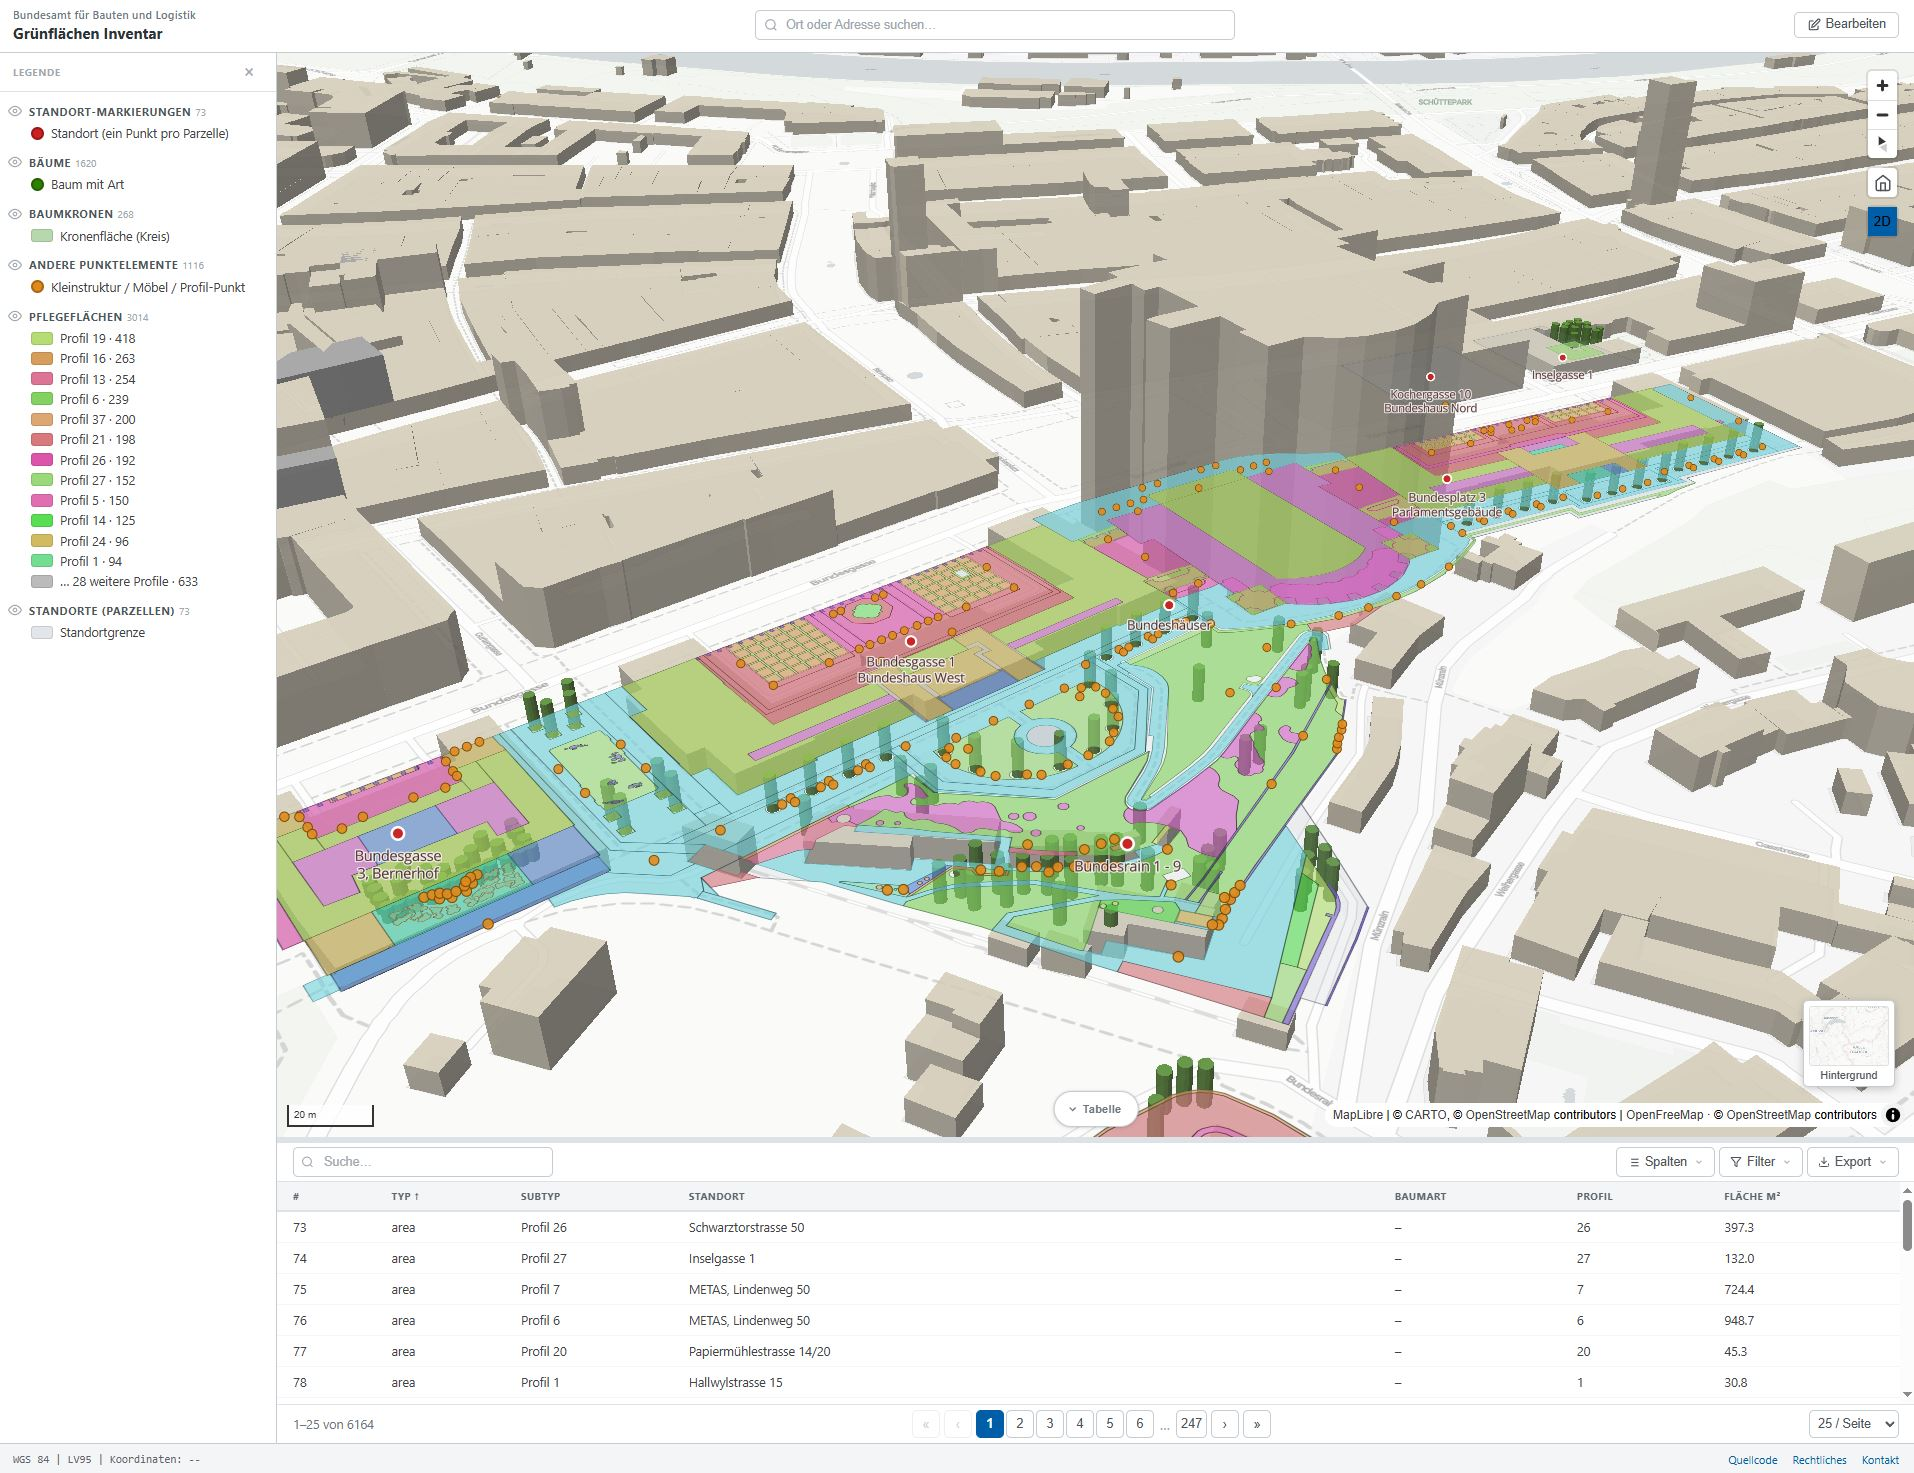
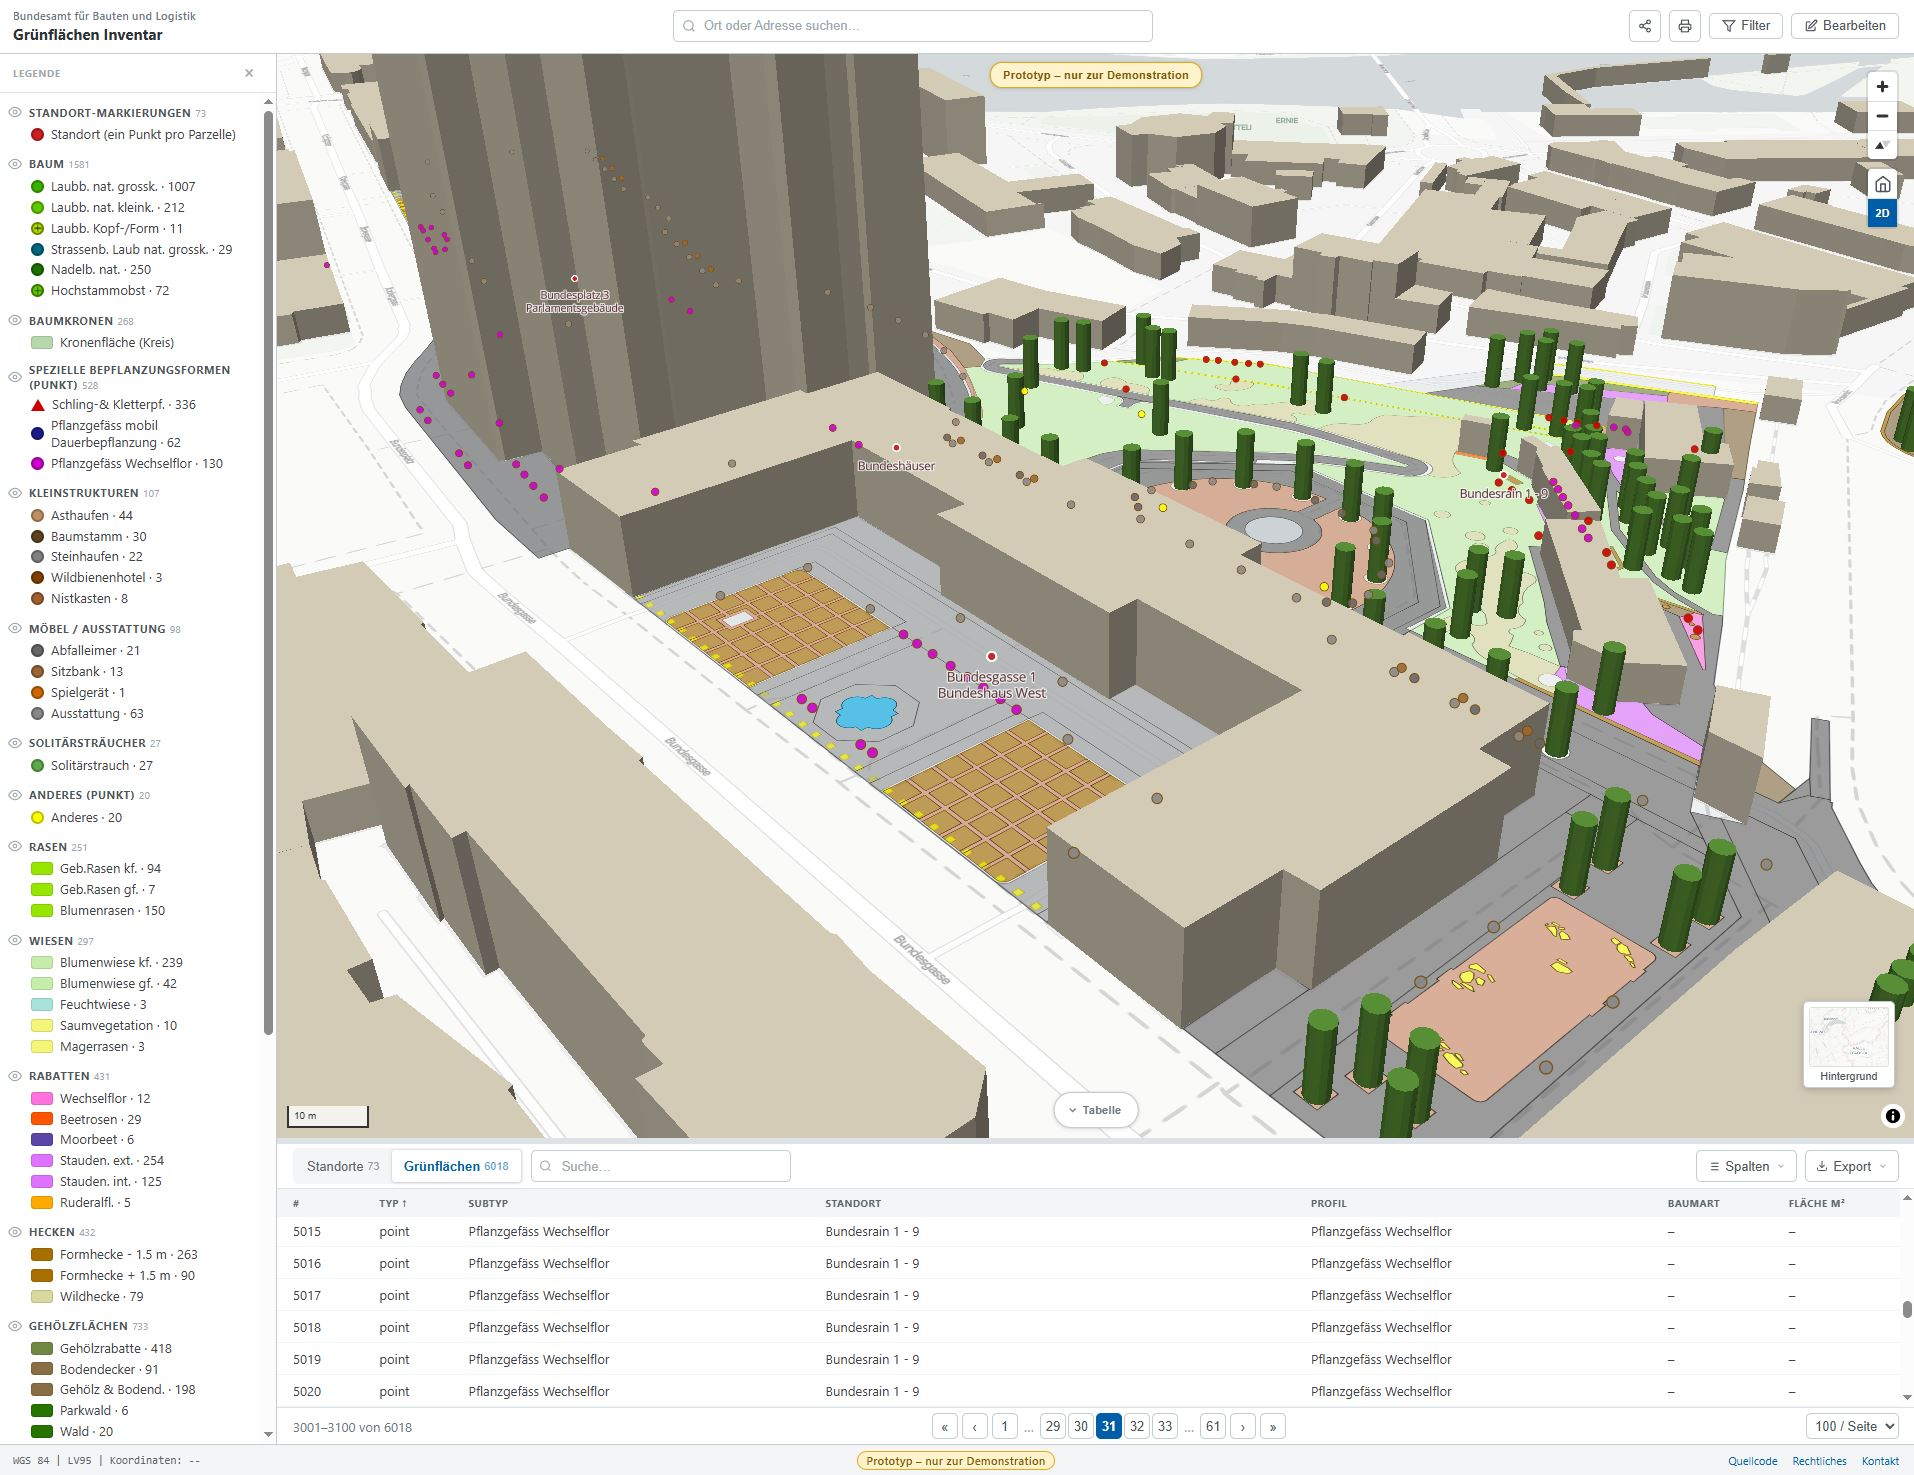
Update

diff --git a/js/map.js b/js/map.js
@@ -794,7 +794,15 @@ function add3DLayers() {
           14, 0,
           15, ['coalesce', ['get', 'render_height'], BUILDING_DEFAULT_M],
         ],
-        'fill-extrusion-base': ['coalesce', ['get', 'render_min_height'], 0],
+        // Push the wall base 0.5 m BELOW ground.  This eliminates the
+        // z-fight at the ground line where the building wall (z=0) meets
+        // the semi-transparent area-fill polygons (also z=0) — without
+        // the offset, MapLibre's translucent pass paints fills over the
+        // building's lower wall pixels, and you see the green-area
+        // polygons bleeding onto the building.  Rooftop annexes (with
+        // an explicit `render_min_height`) shift down by the same 0.5 m;
+        // visually invisible at typical zoom levels.
+        'fill-extrusion-base': ['-', ['coalesce', ['get', 'render_min_height'], 0], 0.5],
         // Opaque buildings — translucency makes the 3D view read as a
         // ghost-render and users can't tell where the building actually is.
         // The ground polygons below get correctly occluded at the